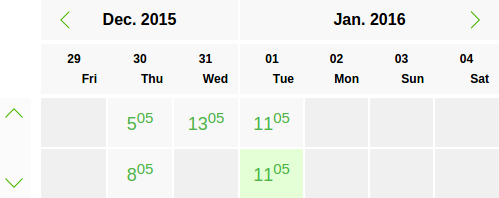
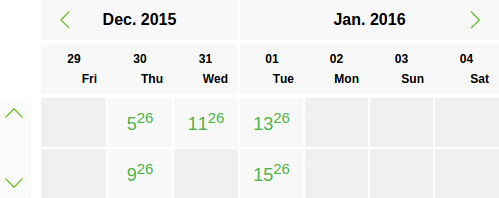
Screenshot

diff --git a/index.html b/index.html
@@ -17,10 +17,10 @@
          dat3 = new Date();
 
     dat1.setDate(dat1.getDate() + 1); dat1.setHours(11);
-    dat2.setDate(dat1.getDate() + 1); dat1.setHours(15);
-    dat3.setDate(dat1.getDate() + 1); dat1.setHours(13);
+    dat2.setDate(dat1.getDate() + 1); dat2.setHours(15);
+    dat3.setDate(dat1.getDate() + 1); dat3.setHours(13);
 
-    dates = [dat1, dat2, dat3, new Date().setHours(5), new Date().setHours(8) ];
+    dates = [dat1, dat2, dat3, new Date().setHours(5), new Date().setHours(9) ];
 
     var calendar = new BookCalendar({
       data: dates,
